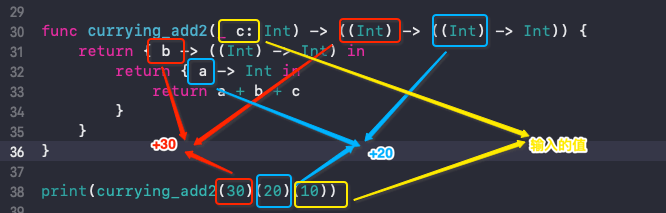
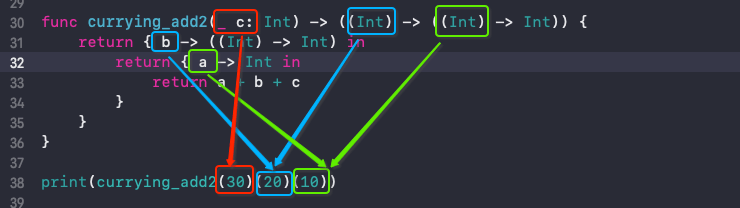
update Currying

diff --git a/Swift/Currying.md b/Swift/Currying.md
@@ -195,7 +195,7 @@ func add2(_ a: Int, _ b: Int, _ c: Int) -> Int {
 }
 ```
 
-柯里化的结果 `currying_add2(30)(20)(10)`
+柯里化结果
 
 ```swift
 func currying_add2(_ c: Int) -> ((Int) -> ((Int) -> Int)) {
@@ -205,13 +205,17 @@ func currying_add2(_ c: Int) -> ((Int) -> ((Int) -> Int)) {
         }
     }
 }
+
+print(currying_add2(30)(20)(10)) // 60
 ```
+
+我们希望的是输入数字 10，对其进行加 20，再加 30 的操作。从对拥有两个参数的函数柯里化的经验来看，输入的数字对应的是返回函数的入参。`currying_add2 ` 返回值类型是个嵌套函数，输入的数字对应的就是最里面函数的入参。对应关系如下：
 
 ![](../Images/Swift/Currying/Currying_images04.png)
 
 我们定义一个函数 `currying()`，它接收一个函数类型的参数 `fn`，并将这个函数 `fn` 柯里化。 意思就是将`add(10, 20) `  转化成 `currying(add)(20)(10)` 。
 
-`currying(add)(20)(10)` 类似将接收三个参数的函数柯里化
+`currying(add)(20)(10)` 与接收三个参数的函数柯里化结果类似
 
 ```swift
 func currying(_ fn: @escaping (Int, Int) -> Int) -> ((Int) -> ((Int) -> Int)) {
